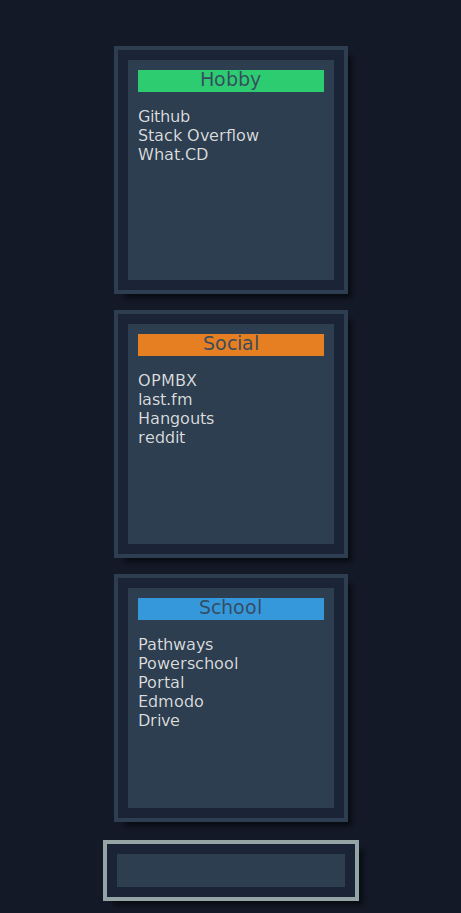
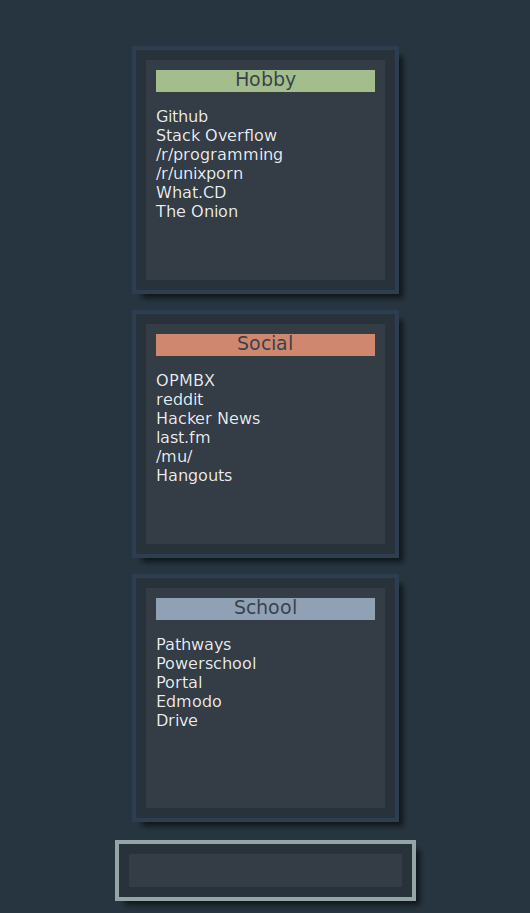
Added my new colorscheme

diff --git a/styles.css b/styles.css
@@ -1,5 +1,5 @@
 body {
-	background-color: #131927;
+	background-color: #26353f;
 	margin: 0;
 	padding: 0;
 	font-family: "DejaVu Sans", sans-serif;
@@ -31,8 +31,8 @@ body {
 	width: 33.3%;
 	height: 200px;
 	text-align: center;
-	background-color: #2c3e50;
-	border: 10px solid #1b2336;
+	background-color: #343d46;
+	border: 10px solid #28323b;
 	outline: #2c3e50 solid 4px;
 	padding: 10px;
 	-webkit-box-shadow: 7px 7px 5px 1px rgba(0,0,0,0.6);
@@ -45,25 +45,25 @@ body {
 	text-align: center;
 	vertical-align: middle;
 	height: 22px;
-	color: #34495e;
+	color: #343d46;
 }
 
 #boxHeader1 {
-	background-color: #2ecc71;
+	background-color: #A3BE8C;
 }
 
 #boxHeader2 {
-	background-color: #e67e22;
+	background-color: #d08770;
 }
 
 #boxHeader3 {
-	background-color: #3498db;
+	background-color: #8fa1b3;
 }
 
 a:link,
 a:visited {
 	text-decoration: none;
-	color: #e0e0e0;
+	color: #eff1f5;
 }
 
 ul {
@@ -99,12 +99,12 @@ ul {
 	margin: auto;
 	display: block;
 	padding: 5px 5px;
-	background-color: #2c3e50;
-	border: 10px solid #1b2336;
+	background-color: #343d46;
+	border: 10px solid #28323b;
 	-webkit-box-shadow: 7px 7px 5px 1px rgba(0,0,0,0.6);
 	-moz-box-shadow: 7px 7px 5px 1px rgba(0,0,0,0.6);
 	box-shadow: 7px 7px 5px 1px rgba(0,0,0,0.6);
 	font-size: 14pt;
-	color: #e0e0e0;
+	color: #eff1f5;
 	outline: #95a5a6 solid 4px;
 }

diff --git a/index.html b/index.html
@@ -15,7 +15,7 @@
 							<li><a href="https://github.com/">Github</a></li>
 							<li><a href="http://stackoverflow.com/">Stack Overflow</a></li>
 							<li><a href="http://reddit.com/r/programming">/r/programming</a></li>
-							<li><a href="http://reddit.com/r/unixporn">/r/unixporn</a></li>
+							<li><a href="http://reddit.com/r/linux">/r/linux</a></li>
 							<li><a href="https://what.cd/">What.CD</a></li>
 							<li><a href="http://theonion.com/">The Onion</a></li>
 						</ul>
